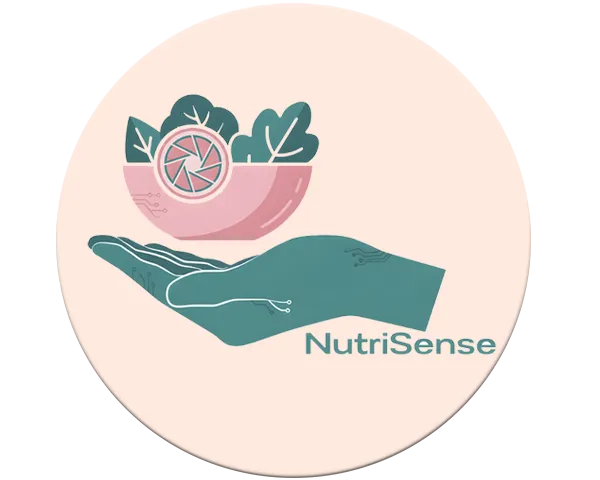
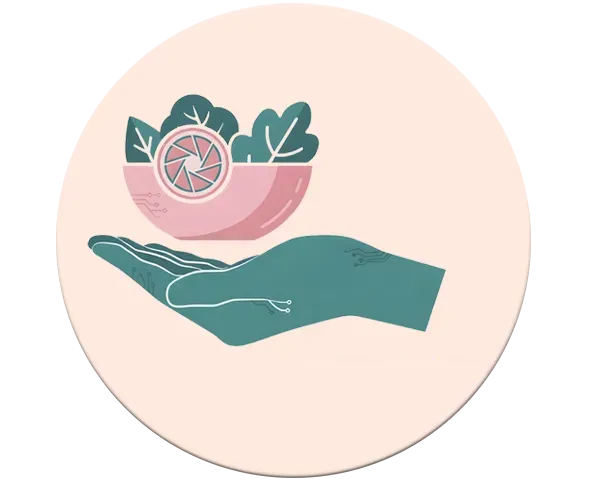
feat: add YouTube video embeds and pause carousel on playback

Changed region(s): [[0.51, 0.6875, 0.84, 0.75]]

diff --git a/js/main.js b/js/main.js
@@ -107,6 +107,8 @@ function initCarousel() {
    * @returns {void}
    */
   function goTo(index) {
+    window._pauseAllVideos?.();
+
     slides[current].setAttribute('aria-hidden', 'true');
     dots[current]?.classList.remove('is-active');
 
@@ -158,14 +160,55 @@ function initCarousel() {
     }
   }, { passive: true });
 
+  /** @type {boolean} True while any hero video is playing. */
+  let videoPlaying = false;
+
   hero.addEventListener('mouseenter', () => clearInterval(autoTimer));
-  hero.addEventListener('mouseleave', startAuto);
+  hero.addEventListener('mouseleave', () => { if (!videoPlaying) startAuto(); });
 
   hero.addEventListener('keydown', e => {
     if (e.key === 'ArrowLeft')  { goTo(current - 1); resetAuto(); }
     if (e.key === 'ArrowRight') { goTo(current + 1); resetAuto(); }
   });
+
+  window._carouselPauseForVideo  = () => { videoPlaying = true;  clearInterval(autoTimer); };
+  window._carouselResumeFromVideo = () => { videoPlaying = false; startAuto(); };
+
+  new IntersectionObserver(([entry]) => {
+    if (!entry.isIntersecting) window._pauseAllVideos?.();
+  }, { threshold: 0.1 }).observe(hero);
 }
+
+/**
+ * Called automatically by the YouTube IFrame API once it finishes loading.
+ * Creates YT.Player instances for each hero video iframe and wires up
+ * onStateChange so the carousel pauses while a video is playing.
+ */
+window.onYouTubeIframeAPIReady = function () {
+  /** @type {YT.Player[]} */
+  const players = [];
+
+  ['yt-product', 'yt-team'].forEach(id => {
+    if (!document.getElementById(id)) return;
+    players.push(new YT.Player(id, {
+      events: {
+        onStateChange: e => {
+          if (e.data === YT.PlayerState.PLAYING) {
+            window._carouselPauseForVideo?.();
+          } else if (e.data === YT.PlayerState.PAUSED || e.data === YT.PlayerState.ENDED) {
+            window._carouselResumeFromVideo?.();
+          }
+        }
+      }
+    }));
+  });
+
+  window._pauseAllVideos = () => {
+    players.forEach(p => {
+      try { if (p.getPlayerState() === YT.PlayerState.PLAYING) p.pauseVideo(); } catch {}
+    });
+  };
+};
 
 /* ============================================================
    FAQ ACCORDION

diff --git a/index.html b/index.html
@@ -147,12 +147,13 @@
           <p data-i18n="hero3_sub">Watch how NutriSmart transforms your nutrition journey</p>
           <div class="hero__video-wrapper">
             <iframe
-              src="https://www.youtube.com/embed/VIDEO_ID_PRODUCT"
-              title="NutriSmart: About the Product"
+              id="yt-team"
+              src="https://www.youtube.com/embed/QXU8UEOLe2s?enablejsapi=1"
+              title="NutriSmart: About the Team"
               allow="accelerometer; autoplay; clipboard-write; encrypted-media; gyroscope; picture-in-picture"
               allowfullscreen
               loading="lazy"
-              aria-label="NutriSmart product promotional video"></iframe>
+              aria-label="NutriSmart team introduction video"></iframe>
           </div>
         </article>
 
@@ -162,12 +163,13 @@
           <p data-i18n="hero4_sub">The people behind the platform that puts your health first</p>
           <div class="hero__video-wrapper">
             <iframe
-              src="https://www.youtube.com/embed/VIDEO_ID_TEAM"
-              title="NutriSmart: About the Team"
+              id="yt-product"
+              src="https://www.youtube.com/embed/VIDEO_ID_PRODUCT?enablejsapi=1"
+              title="NutriSmart: About the Product"
               allow="accelerometer; autoplay; clipboard-write; encrypted-media; gyroscope; picture-in-picture"
               allowfullscreen
               loading="lazy"
-              aria-label="NutriSmart team introduction video"></iframe>
+              aria-label="NutriSmart product promotional video"></iframe>
           </div>
         </article>
 
@@ -588,5 +590,6 @@
 
   <script src="js/i18n.js"></script>
   <script src="js/main.js"></script>
+  <script src="https://www.youtube.com/iframe_api"></script>
 </body>
 </html>